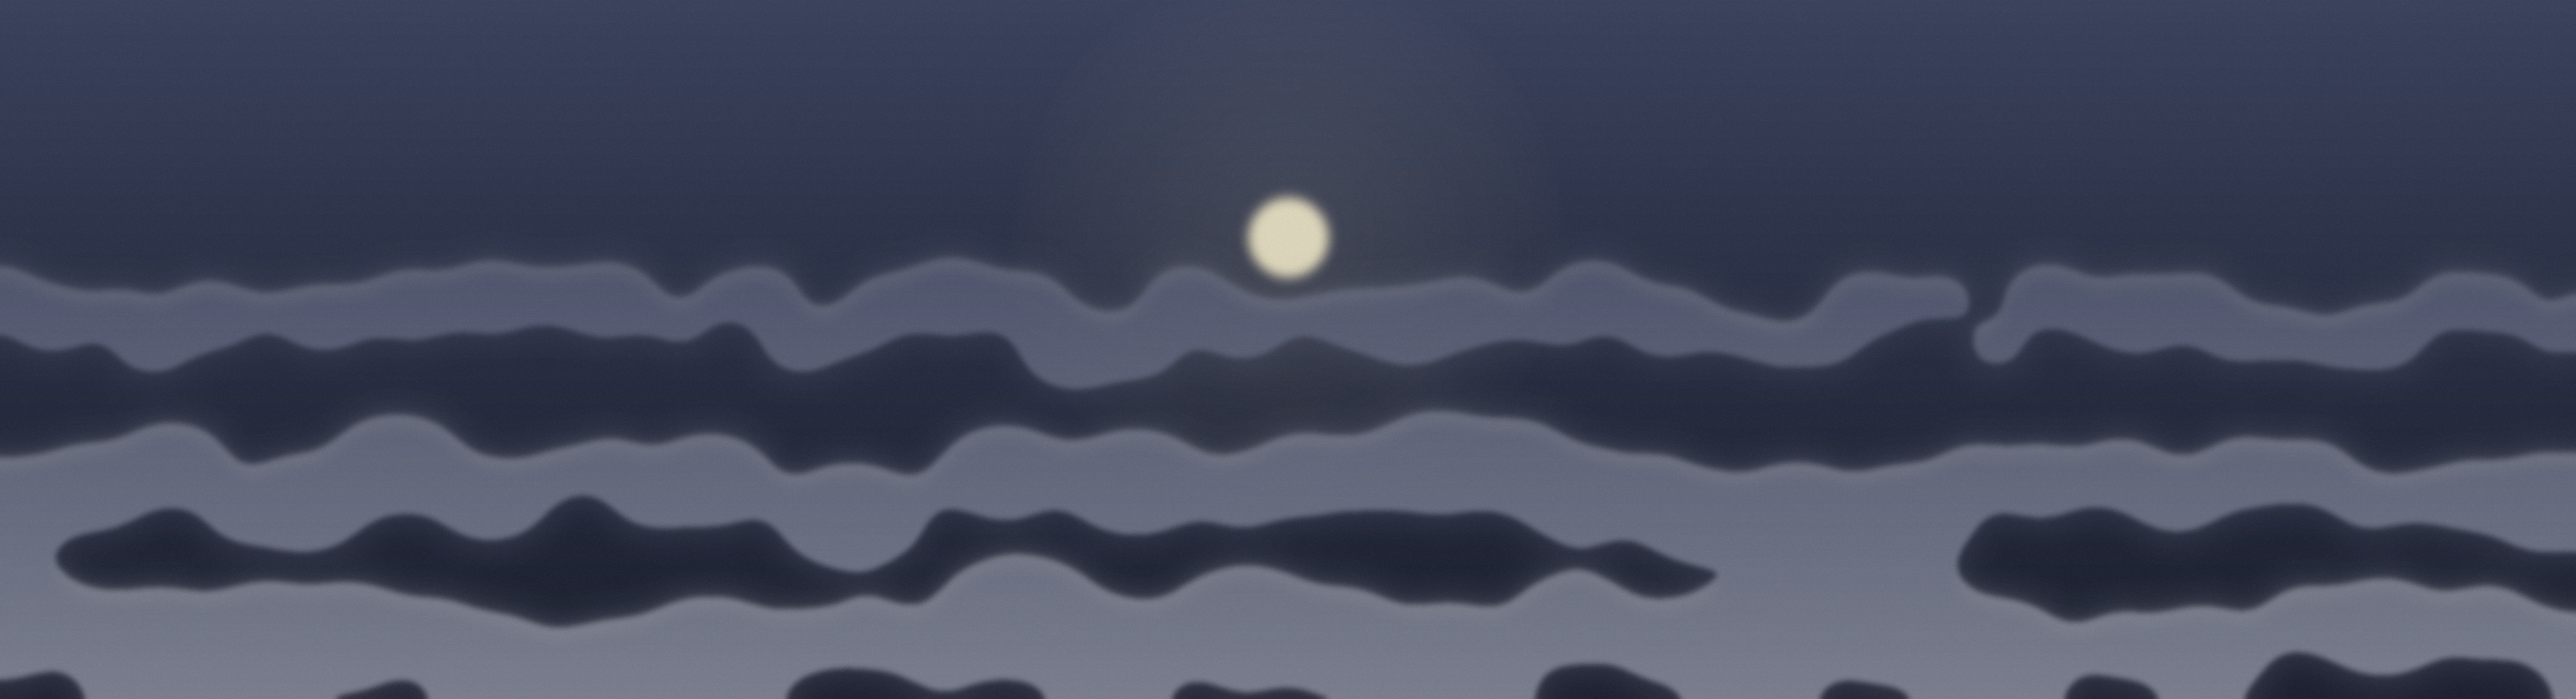
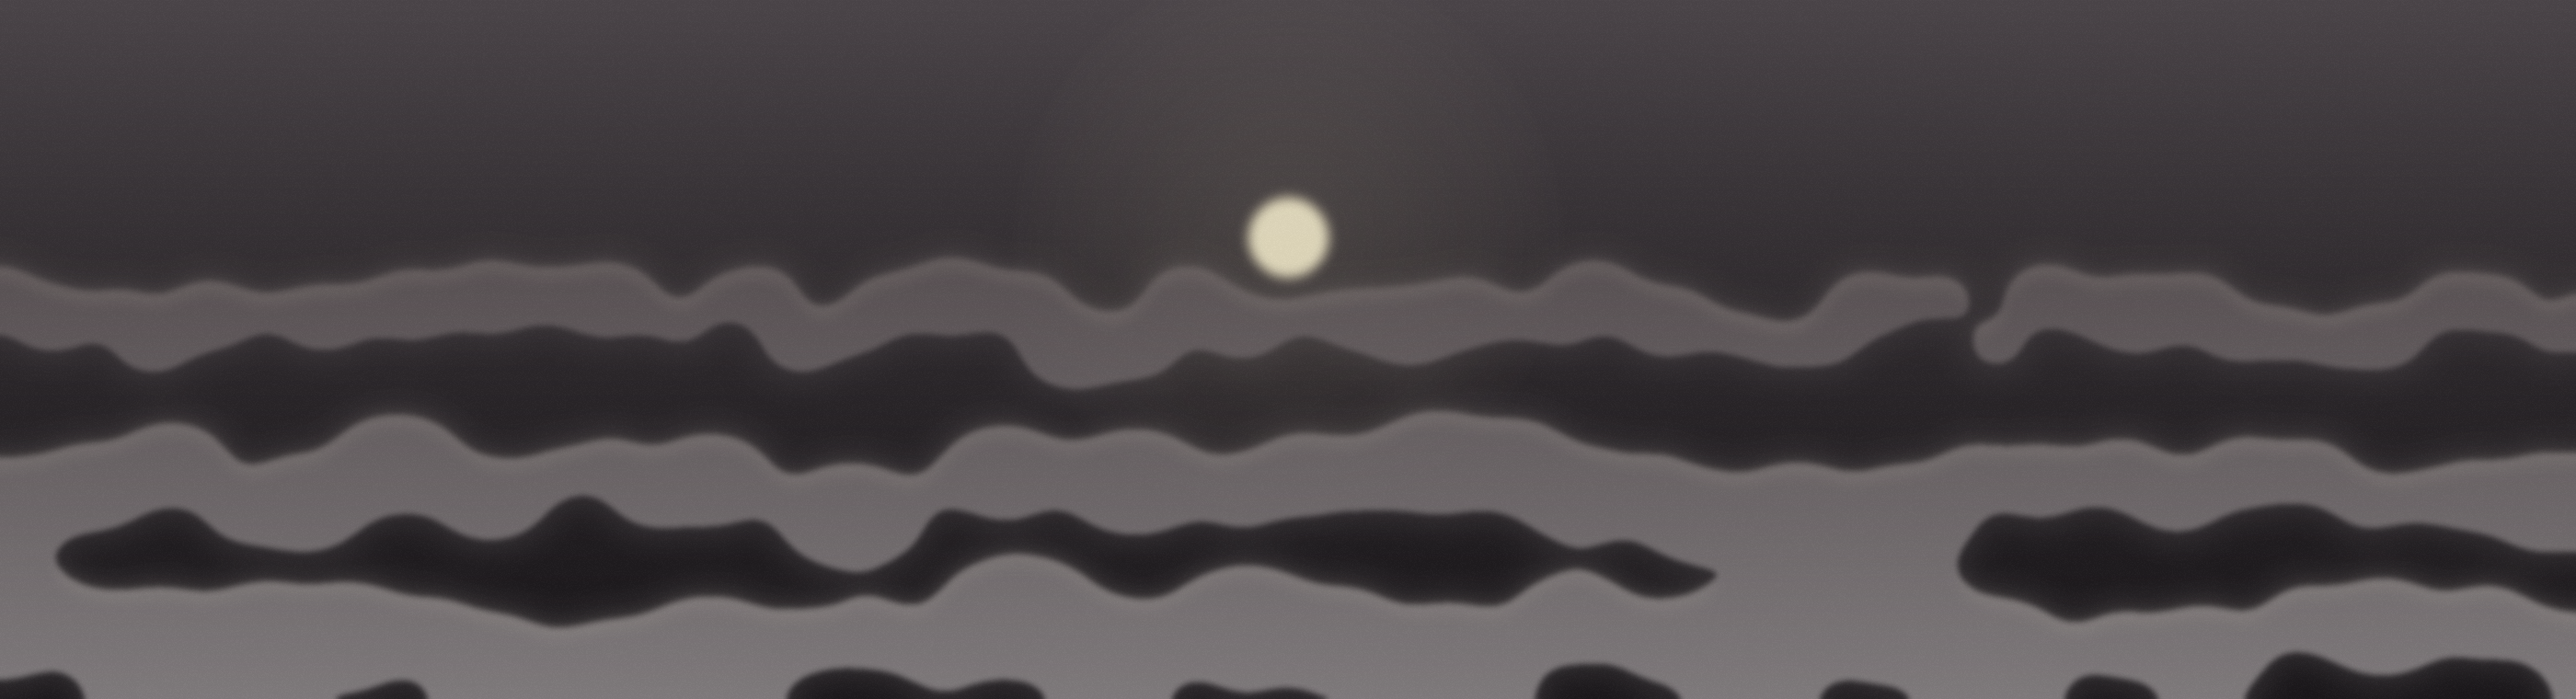
Real ballistics for the spaldeen; regrade the night to warm gothic sepia
Physics (view-side only — outcomes still come from the soak-tested core;
the flight solves *backwards* from the core's landing point and time, so
SIM baselines are untouchable by construction):

- One gravity constant (Tuning.BALL_G) drives every arc. Pitch phase A is
  a true toss — launch velocity solved so the ball leaves the hand at
  release height and meets the cobbles exactly at ta, keeping the swing
  clock identical. The bounce rebounds with the pitch's liveliness as a
  rebound apex: the fast one now crosses high on the hop, the drop dies
  low, so pitches read differently off the bounce.
- The spinner bows away before the bounce (Magnus drift) and takes on
  contact — the kick is now a bend at the bounce, not a baked offset.
- Hits fly on real parabolas with hang time derived from gravity: deep
  flies genuinely hang, liners stay flat. Grounders are a restitution
  chain of decaying hops (e = 0.55) instead of scripted sine bumps.

Art: the cool blue night grade was the biggest visible mismatch with the
reference — reground everything to warm gothic sepia: earth-brown
cobbles, storm sky, warm brick, amber lamp pools strengthened, heavier
vignette, the far tenement warmed to match, live-sprite tint moved to
the same dusk. Finer ground texel for a dirtier street.

Validated: import clean, SIM OK, SMOKE_OK, captured in both orientations.

Claude-Session: https://claude.ai/code/session_01EAhAdM4K8KttNcwM1gG72N

diff --git a/threesewers/tools/art_backdrop.py b/threesewers/tools/art_backdrop.py
@@ -31,16 +31,16 @@ WALL_H = 3200.0                   # tenements tower off the top of the frame
 SEWERS_Y = [1650.0, 1250.0, 850.0]
 
 # night palette — deeper and cooler than the daytime stock
-SKY_TOP = (16, 19, 32)
-SKY_HORIZON = (54, 58, 82)
-STONE = (58, 57, 62)
+SKY_TOP = (20, 17, 20)
+SKY_HORIZON = (72, 62, 58)
+STONE = (96, 80, 62)
 STONE_D = (40, 40, 45)
-WALK_C = (86, 84, 84)
-BRICK_N = (66, 50, 44)
+WALK_C = (104, 92, 78)
+BRICK_N = (78, 56, 44)
 BRICK_ND = (44, 34, 31)
 LAMP = (255, 208, 138)
 
-COBBLE_TEXEL = 5.0                # texels per world unit
+COBBLE_TEXEL = 6.5                # texels per world unit — finer, dirtier
 WALK_TEXEL = 3.0
 BRICK_TEXEL = 4.0
 
@@ -138,7 +138,7 @@ def rasterise(view, props_dir, rs=2):
 def _night_grade(img_f, view, rs):
     """Sink the street into blue-black, then add gaslight back."""
     W, H = img_f.shape[1], img_f.shape[0]
-    tint = np.array([0.42, 0.50, 0.78], np.float32)
+    tint = np.array([0.60, 0.50, 0.38], np.float32)
     out = img_f * tint
     # warm pools, added in linear-ish space
     glow = np.zeros_like(out)
@@ -155,8 +155,8 @@ def _night_grade(img_f, view, rs):
         glow[..., 1] += f * LAMP[1] * strength
         glow[..., 2] += f * LAMP[2] * strength
 
-    pool(P.PLATE_X, 2330.0, 560.0, 0.50)      # the plate, so play stays legible
-    pool(P.PLATE_X, 1900.0, 520.0, 0.26)
+    pool(P.PLATE_X, 2330.0, 560.0, 0.62)      # the plate, so play stays legible
+    pool(P.PLATE_X, 1900.0, 520.0, 0.34)
     pool(WALL_L - WALK * 0.5, 1180.0, 300.0, 0.60)
     pool(WALL_R + WALK * 0.5, 1980.0, 300.0, 0.60)
     pool(WALL_L - WALK * 0.4, 2450.0, 240.0, 0.40)
@@ -165,13 +165,13 @@ def _night_grade(img_f, view, rs):
     return np.clip(out, 0, 255)
 
 
-def _vignette(img, strength=0.55):
+def _vignette(img, strength=0.72):
     w, h = img.size
     v = Image.new("L", (w, h), 0)
     d = ImageDraw.Draw(v)
     d.ellipse([-w * 0.30, -h * 0.22, w * 1.30, h * 1.22], fill=255)
     v = v.filter(ImageFilter.GaussianBlur(min(w, h) * 0.13))
-    dark = Image.new("RGBA", (w, h), (6, 8, 16, 255))
+    dark = Image.new("RGBA", (w, h), (12, 9, 8, 255))
     dark.putalpha(v.point(lambda p: int((255 - p) * strength)))
     out = img.convert("RGBA")
     out.alpha_composite(dark)
@@ -207,10 +207,10 @@ def _far_building(img, view, rs, rnd):
     base_y = sy_far * rs + 2
     top_y = base_y - half * 2.6
     d = ImageDraw.Draw(img)
-    body = (46, 44, 58, 255)
+    body = (56, 45, 38, 255)
     d.rectangle([cx - half, top_y, cx + half, base_y], fill=body)
     d.rectangle([cx - half, top_y, cx + half, top_y + half * 0.10],
-                fill=(38, 36, 50, 255))          # cornice
+                fill=(42, 34, 28, 255))          # cornice
     cols = 5
     rows = 7
     for r in range(rows):
@@ -220,13 +220,13 @@ def _far_building(img, view, rs, rnd):
             ww = half * 0.10
             wh = ww * 1.5
             lit = rnd.random() < 0.42
-            col = (250, 206, 138, 255) if lit else (26, 28, 40, 255)
+            col = (250, 206, 138, 255) if lit else (32, 26, 23, 255)
             d.rectangle([wx0 - ww, wy0 - wh, wx0 + ww, wy0 + wh], fill=col)
     # haze it back so it reads as distance, not a wall in your face
     haze = Image.new("RGBA", img.size, (0, 0, 0, 0))
     hd = ImageDraw.Draw(haze)
     hd.rectangle([cx - half, top_y, cx + half, base_y],
-                 fill=(58, 64, 92, 140))
+                 fill=(64, 52, 44, 130))
     img.alpha_composite(haze)
 
 
@@ -253,7 +253,7 @@ def build_backdrop(view, props_dir, chars_dir=None, rs=2, seed=3):
                              Image.LANCZOS)
         _paste(img, spr, sx * rs, sy * rs, s * view.xk * ART * mul * rs, anchor)
 
-    night = (30, 38, 66, 255)
+    night = (52, 42, 38, 255)
 
     # --- the block that closes the far end of the street. Without it the
     # vanishing point is a bright wedge of sky and the canyon has no end.

diff --git a/threesewers/tools/art_night.py b/threesewers/tools/art_night.py
@@ -19,13 +19,13 @@ from artkit import INK, shade
 
 SS = 2
 
-NIGHT_STONE = (74, 72, 76)      # cobbles read cool where the lamps miss them
-NIGHT_STONE_L = (96, 93, 94)
-NIGHT_STONE_D = (60, 58, 62)
+NIGHT_STONE = (102, 86, 68)     # warm earth — the lamps own this street
+NIGHT_STONE_L = (126, 106, 84)
+NIGHT_STONE_D = (72, 60, 48)
 LAMP_WARM = (255, 206, 130)
-SKY_HI = (58, 66, 92)
-SKY_LO = (28, 32, 48)
-CLOUD = (86, 92, 116)
+SKY_HI = (74, 68, 72)
+SKY_LO = (26, 23, 26)
+CLOUD = (96, 88, 90)
 
 
 def _cobble_tile(size=256, seed=5):
